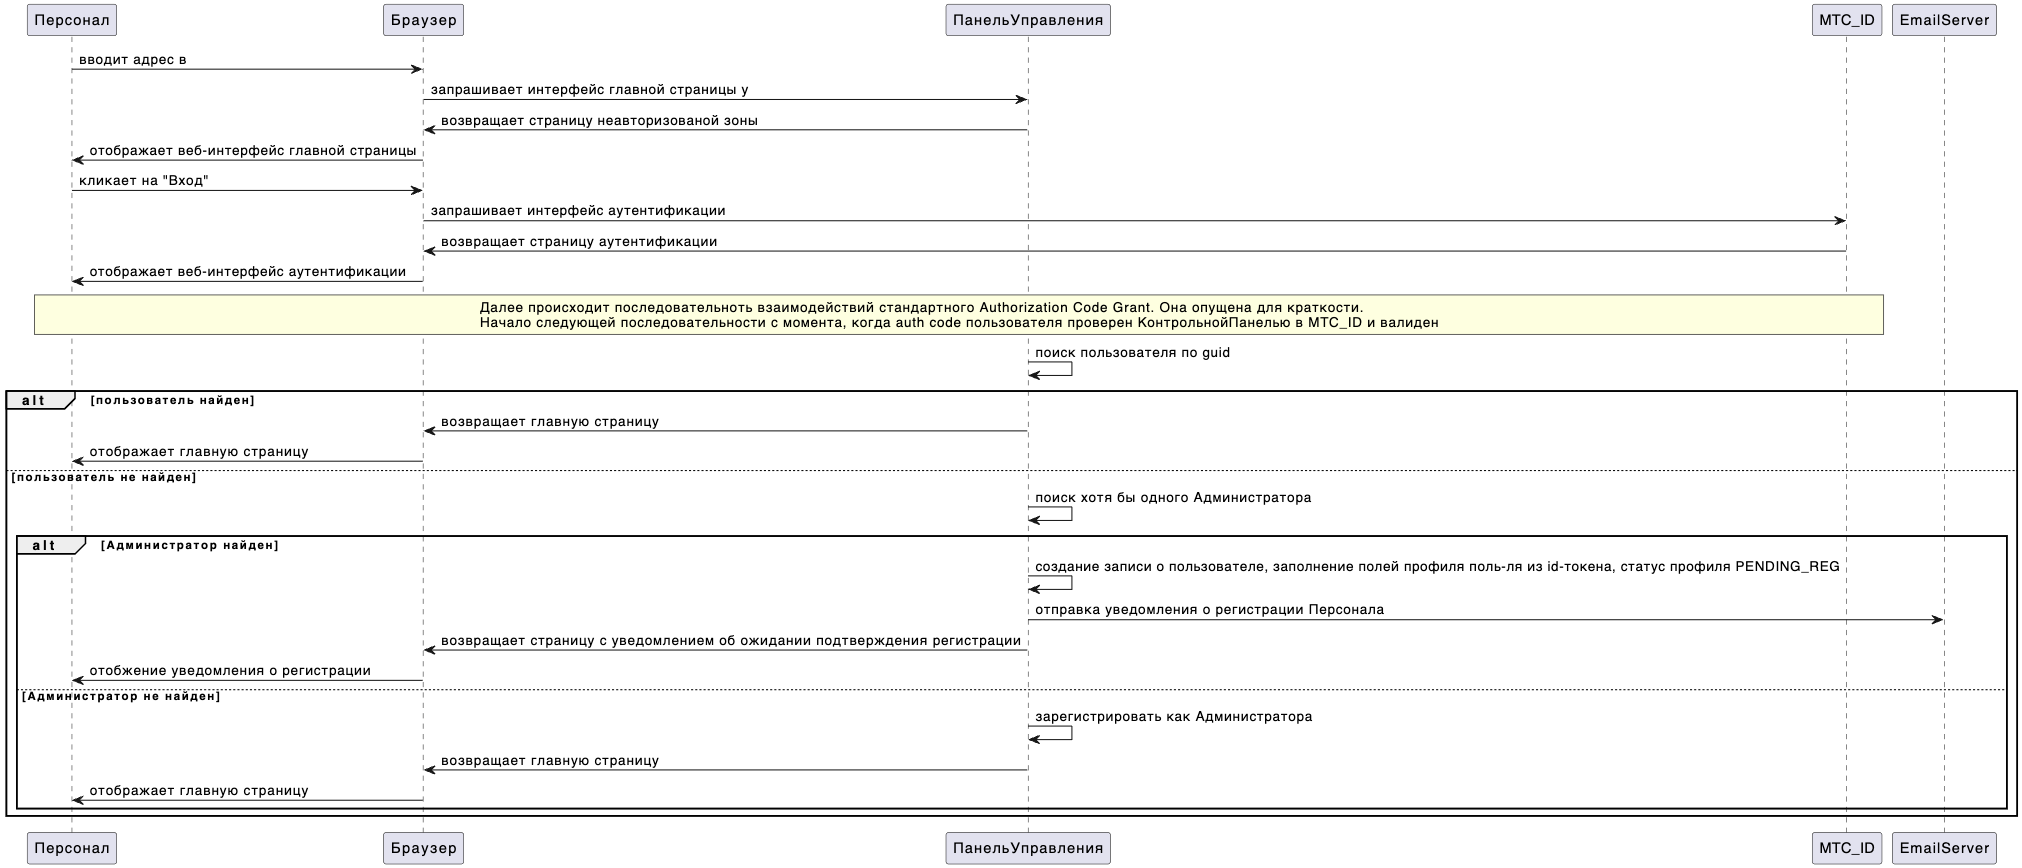
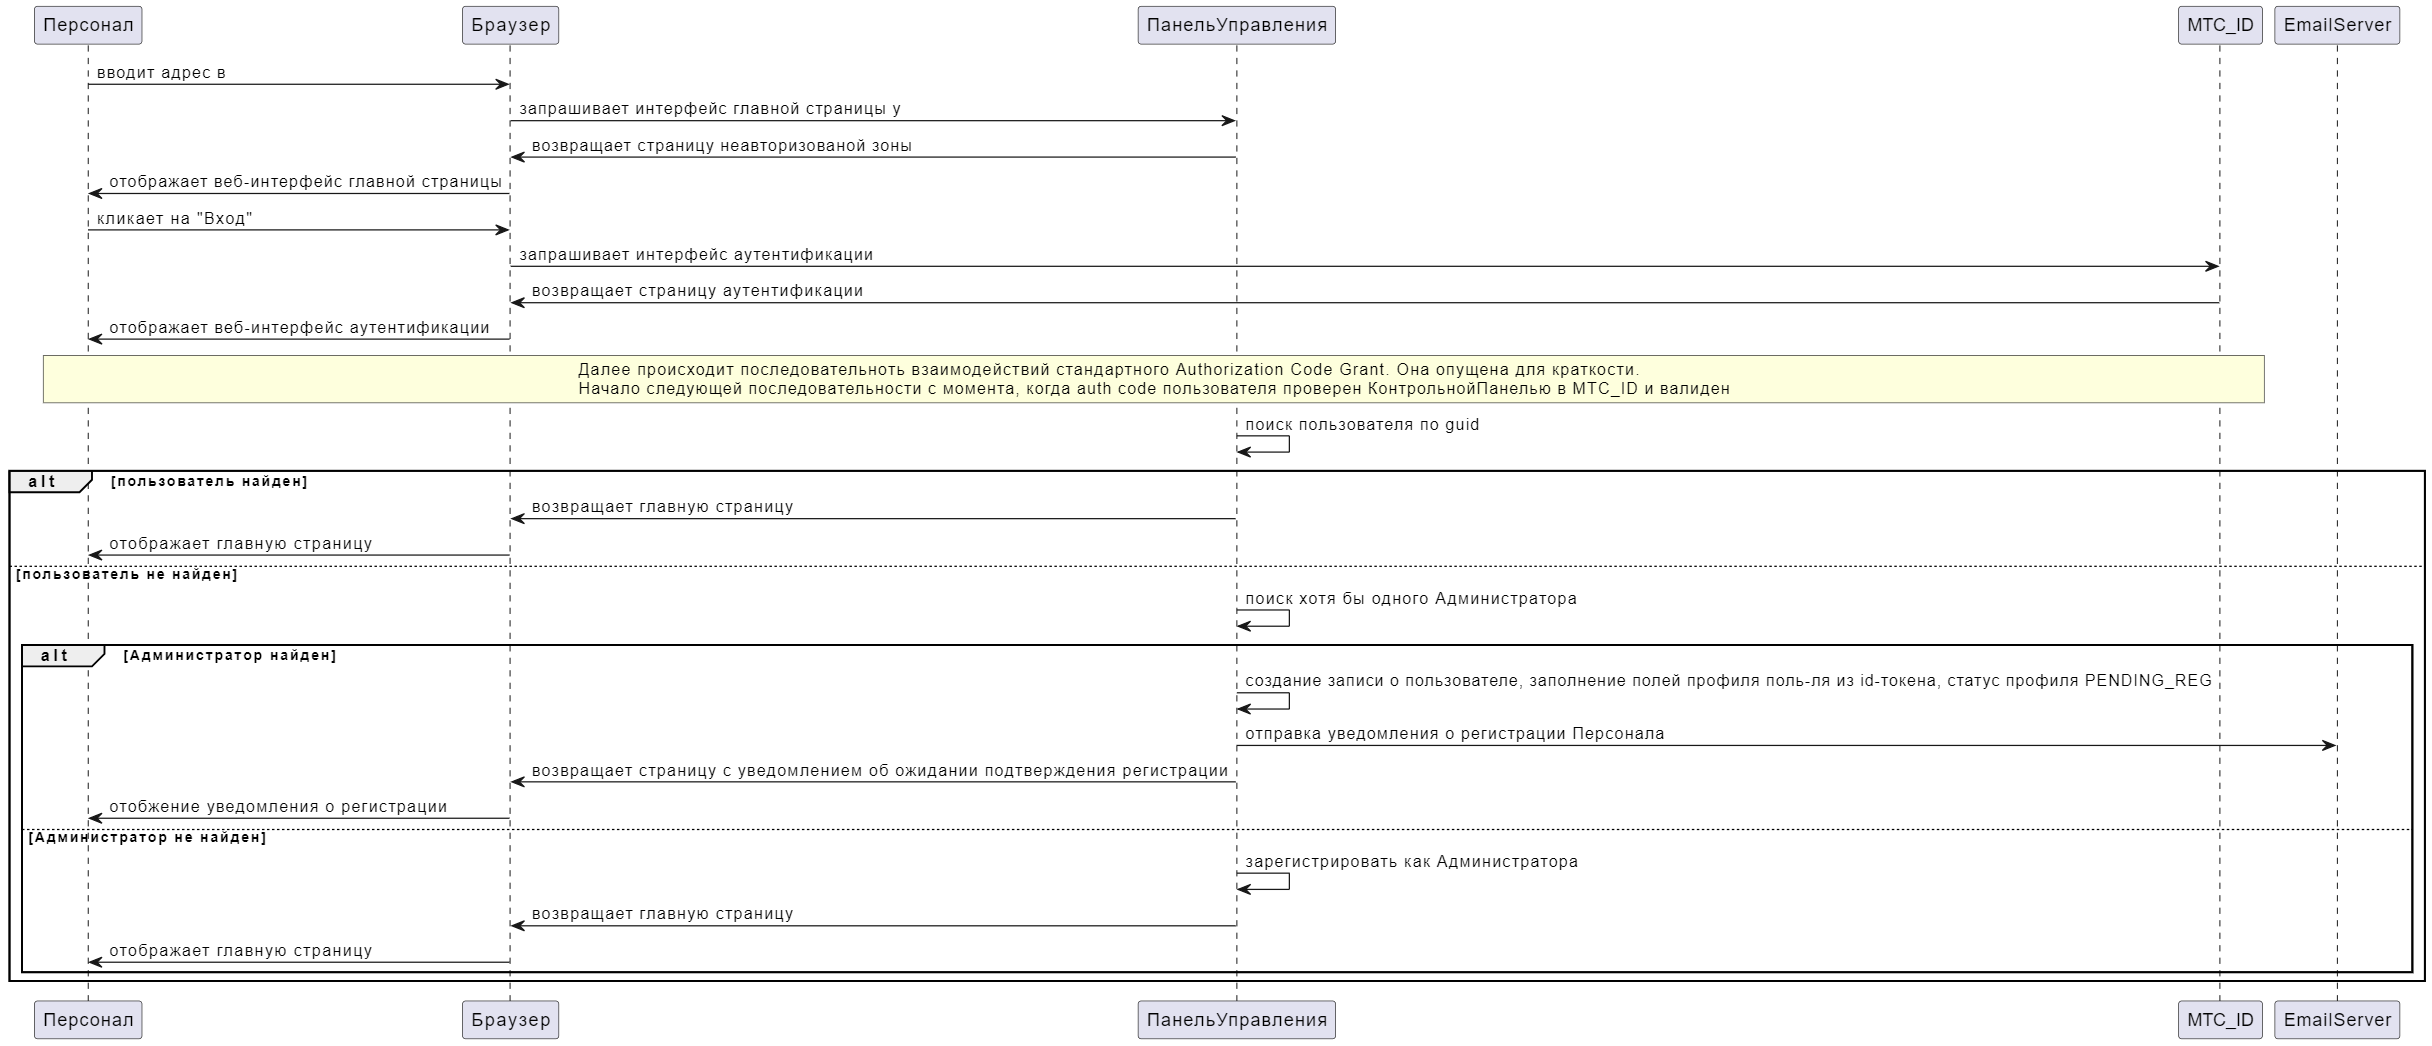
Обновил скрины, поправил разночтения в ADR по аутентификации

diff --git a/docs/adr/adr-002-authn-system.md b/docs/adr/adr-002-authn-system.md
@@ -7,13 +7,13 @@
 - [Alternatives](#alternatives)
 
 # Title
-Аутентификация и регистрация Студентов и Персонала в системе.
+Аутентификация и регистрация Студентов и Персонала в системе
 
 # Status
 Proposed
 
 # Context
-Для системы необходимо реализовать регистрацию и аутентификацию пользователей: Студентов и Персонала(Преподавателя, СотрудникаПоддержки, Администратора). Пользователь приходит в систему как Гость (т.е. неавторизованный пользователь), далее проходит процедуру аутентификации или/и регистрации, которая включает заполнение обязательных полей (например, возраст). После успешной аутентификации/регистрации Студенты должны иметь возможность работать в системе; Персонал должен иметь возможность аутентифицироваться/зарегистрироваться. Регистрация должна быть подтверждена Администратором. Зарегистрированный Персонал может аутентифицироваться/работать в системе. Аутентифицированные пользователи получают доступ к функциям системы на основании своих ролей (Студент, Администратор и тп). Предъявляется требование к доступности в 99%.
+Для системы необходимо реализовать регистрацию и аутентификацию пользователей: Студентов и Персонала (Преподавателя, СотрудникаПоддержки, Администратора). Пользователь приходит в систему как Гость (т.е. неавторизованный пользователь), далее проходит процедуру аутентификации или/и регистрации, которая включает заполнение обязательных полей (например, возраст). После успешной аутентификации/регистрации Студенты должны иметь возможность работать в системе; Персонал должен иметь возможность аутентифицироваться/зарегистрироваться. Регистрация должна быть подтверждена Администратором. Зарегистрированный Персонал может аутентифицироваться/работать в системе. Аутентифицированные пользователи получают доступ к функциям системы на основании своих ролей (Студент, Администратор и тп). Предъявляется требование к доступности в 99%.
 
 # Decision
 Для аутентификации мы будем использовать протокол OIDC (схему Authorization Code Grant), это позволит:
@@ -25,10 +25,11 @@ Proposed
 2. он имеет уровень доступности 99% (класс критичности mission critical)
 3. есть прямая возможность влиять на развитие функциональных возможностей (в частности реализация брокеринга идентичности популярных в РФ провайдеров идентичности: VK, Yandex, Госуслуги)
 
-Мы разделим вход в платформу для Студентов и остальных ролей (Преподаватель, СотрудникПоддержки, Администратор). Мы сделаем это за счет формирования разных redirectUrl в url-е аутентификации. redirectUrl для Студентов будет вести на веб-приложение ОбразовательнойПлатфомы, а redirectUrl для Персонала на веб-приложение КонтрольнойПанели.
+Мы разделим вход в платформу для Студентов и остальных ролей (Преподаватель, СотрудникПоддержки, Администратор). Мы сделаем это за счет формирования разных redirectUrl в url-е аутентификации. redirectUrl для Студентов будет вести на веб-приложение ОбразовательнойПлатфомы, а redirectUrl для Персонала на веб-приложение ПанелиУправления.
 
 ## Описание аутентификации и регистрации Студентов
 Мы реализуем следующим образом аутентификацию и регистрацию новых Студентов
+
 ![student auth](student_auth.png)
 <details>
 <summary>Исходник в plantuml</summary>
@@ -80,7 +81,7 @@ end
 Браузер->Персонал: отображает веб-интерфейс аутентификации
 rnote over Персонал,МТС_ID
  Далее происходит последовательноть взаимодействий стандартного Authorization Code Grant. Она опущена для краткости.
- Начало следующей последовательности с момента, когда auth code пользователя проверен КонтрольнойПанелью в МТС_ID и валиден
+ Начало следующей последовательности с момента, когда auth code пользователя проверен ПанельюУправления в МТС_ID и валиден
 endrnote
 ПанельУправления->ПанельУправления: поиск пользователя по guid
 alt пользователь найден
@@ -103,11 +104,11 @@ end
 </details>
 
 Для простоты на диаграмме не отображен цикл проверки статуса профиля Персонала (PENDING_REG/ACTIVE). Нахождение в статусе PENDING_REG не дает возможности входа в систему покуда регистрация не будет одобрена Администратором.
-Переход профиля Персонала из статуса PENDING_REG в ACTIVE производится Администратором в КонтрольнойПанели вручную.
+Переход профиля Персонала из статуса PENDING_REG в ACTIVE производится Администратором в ПанелиУправления вручную.
 
-**Внимание! Реализация предусматривает, что регистрация первого Администратора, должна быть произведена, до открытия публичного доступа к интерфейсу КонтрольнойПанели.**
+**Внимание! Реализация предусматривает, что регистрация первого Администратора, должна быть произведена, до открытия публичного доступа к интерфейсу ПанелиУправления.**
 
 # Alternatives
 1. Реализация самописной системы управления/хранения УЗ и регистрации была рассмотрена и отброшена из-за трудоемкости дальнейшей поддержки, поскольку:
-   1. потребовалось бы реализовывать и поддерживать функции "забыл пароль", "смена email", "двухфакторной аутентификации", "отзыва токена" и тп многие из которых емкие с точки зрения ИБ функций смены пароля,  и тп.
+   1. потребовалось бы реализовывать и поддерживать функции "забыл пароль", "смена email", "двухфакторной аутентификации", "отзыва токена" и пр., многие из которых емкие с точки зрения ИБ функций смены пароля и т. п.
    2. отдаляет систему от интеграции с экосистемой МТС в рамках которой профиль пользователя уже может быть в МТС ID.
